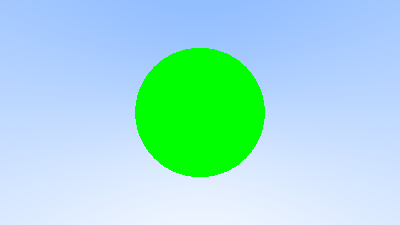
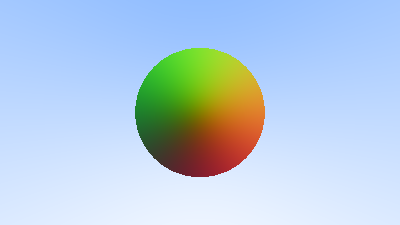
Sphere surface normals

Changed region(s): [[0.33, 0.1867, 0.66, 0.8089]]

diff --git a/RayTracing/main.cpp b/RayTracing/main.cpp
@@ -11,23 +11,33 @@
 //quadratic equation to check if ray hits the sphere  
 // basicly returns true if disciminant > 0
 // (0 roots = 0 intersextions, 1 root = 1 intersection, 2 roots = 2 intersections)
-bool hit_sphere(const point3& center, double radius, const ray& r) {
+double hit_sphere(const point3& center, double radius, const ray& r) {
     Vector3 oc = r.origin() - center; //vector from center to point
     auto a = dot(r.direction(), r.direction());
     auto b = 2.0 * dot(oc, r.direction());
     auto c = dot(oc, oc) - radius * radius;
     auto discriminant = b * b - 4 * a * c;
-    return (discriminant > 0);
+    if (discriminant < 0) {
+        return - 1.0;
+    }
+    else {
+        return (-b - std::sqrt(discriminant) / (2.0 * a));
+    }
 }
 
-//blue gradient image
 color ray_color(const ray& r) {
-    //draw a red circle
-    if (hit_sphere(point3(0, 0, -1), 0.5, r))
-        return color(0, 1, 0);
+    point3 sphere_orig = point3(0, 0, -1);
+    auto t = hit_sphere(sphere_orig, 0.5, r);
 
+    //A sphere colored according to its normal vectors
+    if (t > 0.0) {
+        Vector3 normal_map_vector = normalize(r.at(t) - sphere_orig);
+        return 0.5 * color(normal_map_vector.x() + 1, normal_map_vector.y() + 1, normal_map_vector.z() + 1);
+    }
+
+    //Background - blue gradient
     Vector3 unit_direction = normalize(r.direction());
-    auto t = 0.5 * (unit_direction.y() + 1.0);
+    t = 0.5 * (unit_direction.y() + 1.0);
     return (1.0 - t) * color(1.0, 1.0, 1.0) + t * (color(0.5, 0.7, 1.0)); //blend value
 }
 
@@ -51,8 +61,6 @@ int main() {
 
     // Render
 
-    std::cout << "P3\n" << image_width << ' ' << image_height << "\n255\n";
-
     uint8_t* pixels = new uint8_t[image_width * image_height * chanel_num];
 
     int index = 0;
@@ -69,19 +77,17 @@ int main() {
             int ib = static_cast<int>(255.999 * b);*/
 
             //color pixel_color(double(i) / (image_width - 1), double(j) / (image_height - 1), 0.25);
-            //write_color(std::cout, pixel_color);
+
 
             auto u = double(i) / (image_width - 1);
             auto v = double(j) / (image_height - 1);
             ray r(origin, lower_left_corner + u * horizontal + v * vertical - origin);
             color pixel_color = ray_color(r);
-
+            //write_color(std::cout, pixel_color);
 
             pixels[index++] = static_cast<int>(255.99 *pixel_color.x());
             pixels[index++] = static_cast<int>(255.99 * pixel_color.y());
             pixels[index++] = static_cast<int>(255.99 * pixel_color.z());
-
-            //std::cout << ir << ' ' << ig << ' ' << ib << '\n';
         }
     }
 
